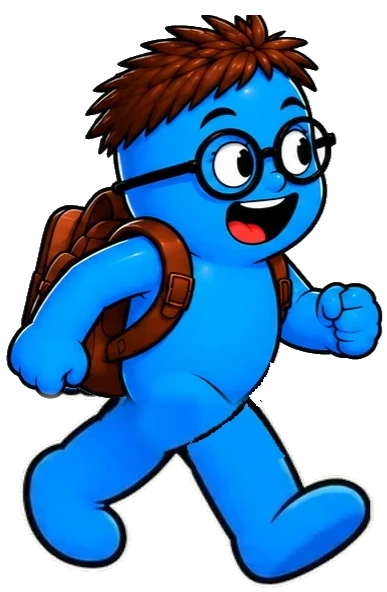
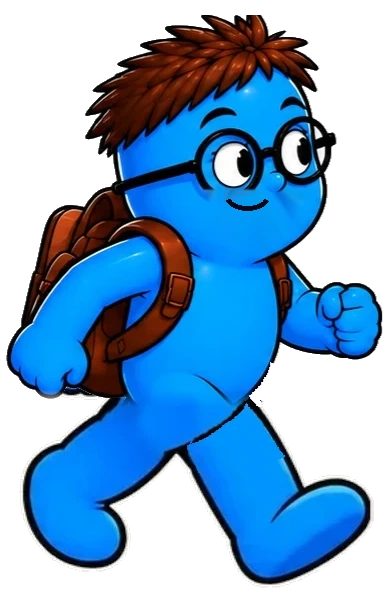
Reynaldo nuevo: andar con boca cerrada (sonrisa) y boca abierta al hablar
Claude-Session: https://claude.ai/code/session_01JMuA9ngbhrTgayxwJt3uwf

Changed region(s): [[0.5271, 0.3041, 0.7752, 0.4257]]

diff --git a/tests/acciones.test.ts b/tests/acciones.test.ts
@@ -69,6 +69,6 @@ describe("andar de Usu (común)", () => {
     expect(ts.every((t) => /pose_p_anda\d$/.test(usu(t).poseId ?? ""))).toBe(true);
     expect(ts.some((t) => usu(t).mouthOpen)).toBe(true);
     for (const cid of ["usu", "reynaldo", "sister", "barbas", "jefe"])
-      for (const p of catalog.characters.find((c) => c.id === cid)!.poses.filter((p) => /^pose_p_anda\d$/.test(p.key))) expect(p.talkSrc, p.id).toMatch(/_boca\.webp$/);
+      for (const p of catalog.characters.find((c) => c.id === cid)!.poses.filter((p) => /^pose_p_anda(_n)?\d$/.test(p.key))) expect(p.talkSrc, p.id).toMatch(/_boca\.webp$/);
   });
 });

diff --git a/docs/SEGUIR_AQUI.md b/docs/SEGUIR_AQUI.md
@@ -66,4 +66,4 @@ Orden: 1A fondo panorámico vacío (entrada, mesas, barra, sofás; suelo despeja
 - Todas las poses `pose_p_*` antiguas de los 5 protagonistas tienen `archived: true`: siguen funcionando en los capítulos y guiones que las usan, pero no se ofrecen en los selectores (Recursos tiene «Ver las archivadas»). Las animaciones antiguas (andar, comer…) siguen funcionando.
 - Nuevas de Reynaldo: `discute_a1..a4` y `discute_b1..b4` (a4 y b4 miran a la izquierda, facing "left") + animaciones «discutir A» y «discutir B». Recorte: `tools/andar/cut_extras.py <img> <prefijo> --sin-sombra`. Tamaño: figura más alta del pack = 1,05 × altura del neutro antiguo.
 - Pendiente: un **neutro nuevo** por personaje (las escenas aún arrancan con el neutro antiguo), boca cerrada para las poses que hablan, y el resto de personajes.
-- Reynaldo nuevo: «andar» = anda_n1..4 (boca abierta siempre; falta versión con boca cerrada para que mueva la boca al hablar andando).
+- Reynaldo nuevo: «andar» = anda_n1..4 con boca cerrada (sonrisa dibujada) y anda_n*_boca abierta (habla andando).
